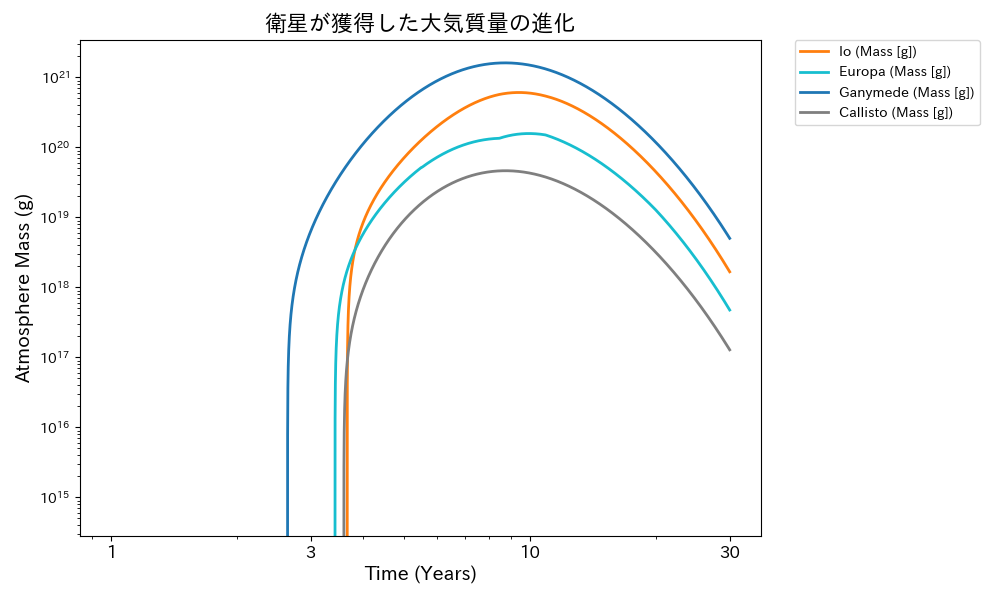
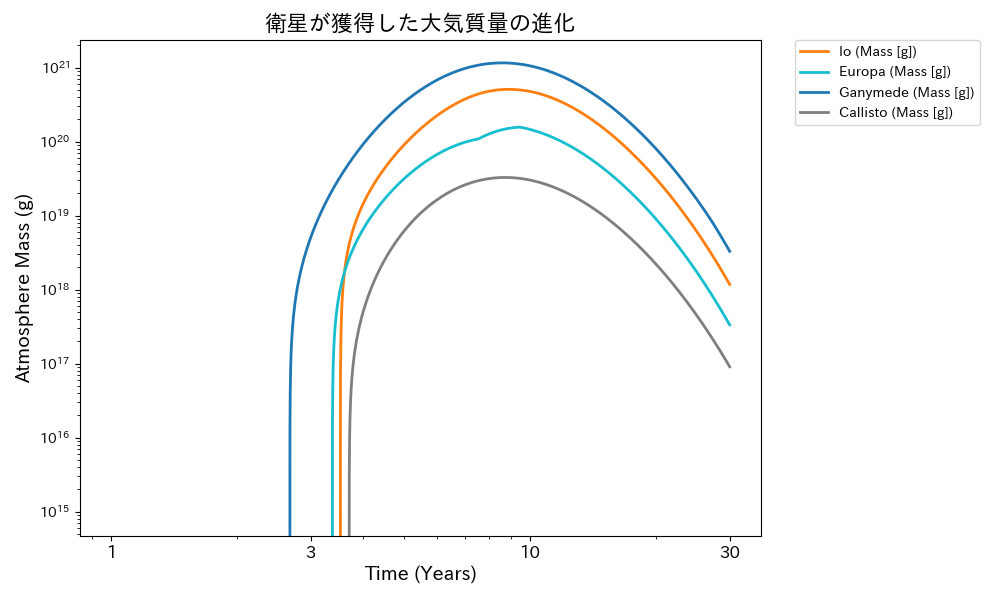
ガニメデの氷質量分率に近いr_gg=1.27e-7を設定

diff --git a/gallilean_central_flax.py b/gallilean_central_flax.py
@@ -9,7 +9,7 @@ plt.rcParams['font.family'] = 'IPAexGothic'
 # --- 物理定数 ---
 G = 6.6743e-8             # 万有引力定数 (cm^3/g/s^2)
 sigma_sb = 5.67e-5         # ステファン・ボルツマン定数 (W/cm^2/K^4)
-r_gg = 1.7e-7              # 粒子とガスの面密度比
+r_gg = 1.27e-7              # 粒子とガスの面密度比
 k_B = 1.380649e-16         # ボルツマン定数 (erg/K)
 m_g = 3.9e-24              # ガスの平均分子質量 (g)
 alpha = 1.0e-4              # 乱流の強さ
@@ -545,14 +545,17 @@ t_max_year = 3.0e7         # 3000万年
 q_total_count = 0
 q_non_converge_count = 0
 
-# 追加: 固定軌道での温度を記録するための準備
-target_fixed_r = 14.8 * R_J  # グラフ化したい軌道半径を指定
-fixed_history_t = []
-fixed_history_Td = []
-fixed_history_T_visc = []
-fixed_history_T_irr = []
-fixed_history_T_sun = []
-fixed_history_T_snow = []
+# --- 変更: 4大衛星の固定軌道での温度進化を記録するための準備 ---
+fixed_orbits = {
+    "Io": 5.89 * R_J,
+    "Europa": 9.38 * R_J,
+    "Ganymede": 14.97 * R_J,
+    "Callisto": 26.34 * R_J
+}
+# 各衛星のデータを保存する辞書を作成
+fixed_histories = {
+    name: {'t': [], 'Td': [], 'T_snow': []} for name in fixed_orbits.keys()
+}
 
 history_disk_mass_t = []
 history_disk_mass = []
@@ -584,42 +587,30 @@ while t_year <= t_max_year:
     history_M_cp.append(M_cp_MJ)
     history_M_dot_g.append(M_dot_g_kg_s)
 
-    # 指定した固定軌道における各温度成分を計算して記録
-    p_fix, q_fix = calculate_p_q(M_cp_kg, M_dot_g_kg_s, target_fixed_r, alpha, r_gg, L_cp)
-    Td_fixed, Sigma_g_fixed = calculate_disk_structure(M_cp_kg, M_dot_g_kg_s, target_fixed_r, alpha, r_gg, L_cp, q_guess=q_fix)
-    
-    # ① 太陽からの熱 (T_sun)
-    T_sun_val = T_bg
-    
-    # ② 木星からの熱 (T_irr)
-    Omega_K_fixed = np.sqrt(G * M_cp_kg / target_fixed_r**3)
-    c_s_fixed = np.sqrt((k_B * Td_fixed) / m_g)
-    H_g_fixed = c_s_fixed / Omega_K_fixed
-    derivative_term = 0.5 * s_const * (H_g_fixed / target_fixed_r) * (1.0 - q_fix)
-    F_in_fixed = 0.5 * (L_cp / (4.0 * np.pi * target_fixed_r**2)) * derivative_term
-    T_irr_val = (max(F_in_fixed, 0) / sigma_sb)**0.25
-    
-    # ③ 摩擦熱 (T_visc)
-    T_visc_val = max(Td_fixed**4 - T_irr_val**4 - T_sun_val**4, 0.0)**0.25
+   # --- 変更: 4大衛星の固定軌道における温度成分を計算して記録 ---
+    for name, r_fixed in fixed_orbits.items():
+        p_fix, q_fix = calculate_p_q(M_cp_kg, M_dot_g_kg_s, r_fixed, alpha, r_gg, L_cp)
+        Td_fixed, Sigma_g_fixed = calculate_disk_structure(M_cp_kg, M_dot_g_kg_s, r_fixed, alpha, r_gg, L_cp, q_guess=q_fix)
+        
+        if np.isnan(Td_fixed):
+            continue
+            
+        Omega_K_fixed = np.sqrt(G * M_cp_kg / r_fixed**3)
+        c_s_fixed = np.sqrt((k_B * Td_fixed) / m_g)
+        H_g_fixed = c_s_fixed / Omega_K_fixed
+        rho_g_fixed = Sigma_g_fixed / (np.sqrt(2.0 * np.pi) * H_g_fixed)
+        P_gas_cgs = rho_g_fixed * c_s_fixed**2
+        
+        X_H2O = 1.7e-4
+        P_H2O_cgs = max(X_H2O * P_gas_cgs, 1e-20)
+        T_snow_val = 6070.0 / (30.86 - np.log(P_H2O_cgs))
+        
+        # 辞書に記録
+        fixed_histories[name]['t'].append(t_year)
+        fixed_histories[name]['Td'].append(Td_fixed)
+        fixed_histories[name]['T_snow'].append(T_snow_val)
 
-    # ④ スノーラインの温度（T_snow）
-    # まず空間密度(rho_g)とMKS単位系のガス圧(Pa)を計算
-    rho_g_fixed = Sigma_g_fixed / (np.sqrt(2.0 * np.pi) * H_g_fixed)
-    P_gas_cgs = rho_g_fixed * c_s_fixed**2
     
-   
-    
-    # 動的スノーラインの計算 (Shibaike et al. 2019 に準拠したモル分率)
-    X_H2O = 1.7e-4
-    P_H2O_cgs = max(X_H2O * P_gas_cgs, 1e-20)
-    T_snow_val = 6070.0 / (30.86 - np.log(P_H2O_cgs))
-
-    fixed_history_t.append(t_year)
-    fixed_history_Td.append(Td_fixed)
-    fixed_history_T_visc.append(T_visc_val)
-    fixed_history_T_irr.append(T_irr_val)
-    fixed_history_T_sun.append(T_sun_val)
-    fixed_history_T_snow.append(T_snow_val)
 
     # すでに捕獲済みの衛星を抽出し、軌道が「外側」の順に並び替え
     active_sats = [sat for sat in satellites if t_year >= sat.t_cap]
@@ -633,17 +624,26 @@ while t_year <= t_max_year:
         p, q = calculate_p_q(M_cp_kg, M_dot_g_kg_s, sat.r_orb, alpha, r_gg, L_cp)
         T_d, Sigma_g = calculate_disk_structure(M_cp_kg, M_dot_g_kg_s, sat.r_orb, alpha, r_gg, L_cp, q_guess=q)
         if np.isnan(T_d): continue
+
+        # ★ 追加・修正: 衛星の現在位置における「局所的なスノーライン温度 (T_snow_local)」を計算
+        v_K = np.sqrt(G * M_cp_kg / sat.r_orb)
+        Omega_K = v_K / sat.r_orb
+        c_s_local = np.sqrt((k_B * T_d) / m_g)
+        H_g_local = c_s_local / Omega_K
+        rho_g_local = Sigma_g / (np.sqrt(2.0 * np.pi) * H_g_local)
+        P_gas_local = rho_g_local * c_s_local**2
+        X_H2O = 1.7e-4
+        P_H2O_local = max(X_H2O * P_gas_local, 1e-20)
+        T_snow_local = 6070.0 / (30.86 - np.log(P_H2O_local))
             
-        # スノーラインの判定（T_snow以上なら氷が蒸発してペブル質量フラックスが半減）
-        local_M_dot_p = current_M_dot_p * 0.5 if T_d >= T_snow_val else current_M_dot_p
+        # 修正: 全体共通の T_snow_val ではなく、局所の T_snow_local を使う
+        local_M_dot_p = current_M_dot_p * 0.5 if T_d >= T_snow_local else current_M_dot_p
        
         eta, H_g = calculate_eta(M_cp_kg, M_dot_g_kg_s, sat.r_orb, alpha, r_gg, L_cp)
         
         st_p = calculate_st_p(p, q, local_M_dot_p, M_dot_g_kg_s, alpha, T_d, M_cp_kg, sat.r_orb, eta)
         
-        v_K = np.sqrt(G * M_cp_kg / sat.r_orb)
-        Omega_K = v_K / sat.r_orb
-        
+        # （...中略: H_p や P_eff などの計算...）
         H_p = H_g * (1.0 + (st_p / alpha) * (1.0 + 2.0 * st_p) / (1.0 + st_p))**(-0.5)
         h_p = H_p / sat.r_orb
 
@@ -651,15 +651,12 @@ while t_year <= t_max_year:
         delta_v = calculate_delta_v(mu_s, eta, st_p, v_K)
         P_eff = calculate_P_eff(mu_s, delta_v, v_K, st_p, eta, h_p)
         
-        # 【重要】自分が捕獲した分、さらに内側に流れるペブルが減る（フィルタリング）
-        
         M_dot_s = local_M_dot_p * P_eff
-        
         current_M_dot_p = current_M_dot_p - M_dot_s
         
-        # --- 追加・修正: 氷と岩石の質量を個別に計算 ---
-        # スノーラインより外側なら、降着するペブルの50%が氷だと仮定
-        f_ice = 0.5 if T_d < T_snow_val else 0.0
+        # 修正: ここでも局所の T_snow_local を使う
+        f_ice = 0.5 if T_d < T_snow_local else 0.0
+            
         
         dt_sec = dt_year * 365.25 * 24 * 3600
         dM_s_total = M_dot_s * dt_sec
@@ -748,7 +745,7 @@ while t_year <= t_max_year:
         dM_s = sat.next_M_s - sat.M_s  # このステップで獲得した質量
         
         # スノーライン(T_snow)より外側なら、獲得したペブルの50%が氷だと仮定
-        if T_d < T_snow_val:
+        if T_d < T_snow_local:
             sat.next_M_ice = sat.M_ice + dM_s * 0.5
         else:
             sat.next_M_ice = sat.M_ice  # 氷は増えない
@@ -813,7 +810,7 @@ if q_total_count > 0:
 print("-" * 40)
 
 # ---------------------------------------------------
-# ★ ここに追加: 最終的な質量と氷質量分率の出力・保存
+# 最終的な質量と氷質量分率の出力・保存
 # ---------------------------------------------------
 output_text = "=" * 40 + "\n"
 output_text += "計算終了時 (3000万年) の衛星の最終パラメータ\n"
@@ -914,16 +911,6 @@ plt.tight_layout()
 plt.savefig("disk_temp_central_flax.png")
 plt.close()
 
-# --- 追加: 固定軌道における円盤ガス温度 ---
-plt.figure(figsize=(8, 5))
-plt.plot(fixed_history_t, fixed_history_Td, color='tab:red', linewidth=2)
-plt.ylabel('Disk Midplane Temp T_d (K)')
-plt.xlabel('Time (Years)')
-plt.title(f'固定軌道 ({target_fixed_r/R_J} R_J) における円盤ガス温度')
-plt.xscale('log')
-plt.tight_layout()
-plt.savefig("fixed_orbit_Td_central_flax.png")
-plt.close()
 
 # --- 追加: ぺブル集積効率 ---
 plt.figure(figsize=(8, 5))
@@ -1012,23 +999,6 @@ plt.tight_layout()
 plt.savefig("disk_temp_vs_gas_pressure_central_flax.png")
 plt.close()
 
-# --- 追加: 各加熱ソースの比較グラフ ---
-plt.figure(figsize=(8, 5))
-# 全体の温度（実線）
-plt.plot(fixed_history_t, fixed_history_Td, label='Total T_d (総合温度)', color='black', linewidth=2)
-# 各成分（点線）
-plt.plot(fixed_history_t, fixed_history_T_visc, label='T_visc (粘性加熱)', color='tab:red', linestyle='--')
-plt.plot(fixed_history_t, fixed_history_T_irr, label='T_irr (木星からの光)', color='tab:orange', linestyle='--')
-plt.plot(fixed_history_t, fixed_history_T_sun, label='T_sun (太陽からの光)', color='tab:blue', linestyle='--')
-
-plt.ylabel('Temperature (K)')
-plt.xlabel('Time (Years)')
-plt.title(f'各加熱ソースの比較 (固定された軌道)')
-plt.xscale('log')
-plt.legend()
-plt.tight_layout()
-plt.savefig("temperature_components_central_flax.png")
-plt.close()
 
 # --- 追加: 円盤ガス総質量の推移 ---
 plt.figure(figsize=(8, 5))
@@ -1218,23 +1188,39 @@ plt.tight_layout()
 plt.savefig("surface_pressure_evolution_central_flux.png")
 plt.close()
 
-# ---固定軌道でのスノーラインの変化---
-plt.figure(figsize=(8, 5))
+# --- 変更: メインループで記録した履歴 (fixed_histories) を使って描画 ---
+plt.figure(figsize=(10, 6))
 
-plt.plot(fixed_history_t, fixed_history_Td, label=r"Disk Temperature (T_d)", color="red", linewidth=2)
-plt.plot(fixed_history_t, fixed_history_T_snow, label=r"Water Ice condensation Temperature (T_{con})", color="blue", linestyle="--", linewidth=2)
+orbit_colors = {
+    "Io": "tab:orange",
+    "Europa": "tab:cyan",
+    "Ganymede": "tab:blue",
+    "Callisto": "tab:gray"
+}
+
+for name in fixed_orbits.keys():
+    hist = fixed_histories[name]
+    col = orbit_colors[name]
+    
+    if len(hist['t']) > 0:
+        # 実線: 円盤温度 T_d
+        plt.plot(hist['t'], hist['Td'], color=col, linestyle='-', linewidth=2, label=f"{name} ($T_d$)")
+        # 破線: 凝縮温度 T_con
+        plt.plot(hist['t'], hist['T_snow'], color=col, linestyle='--', linewidth=2, label=f"{name} ($T_{{con}}$)")
 
 plt.xlabel("Time [years]", fontsize=14)
 plt.ylabel("Temperature [K]", fontsize=14)
-plt.title("Evolution of Temperatures at Fixed Orbit", fontsize=16)
+plt.title("Evolution of Temperatures at Fixed Orbits", fontsize=16)
 plt.xscale("log") 
-plt.legend(fontsize=12)
+
+# 凡例を2列にして配置
+plt.legend(fontsize=10, ncol=2, loc='lower left')
 plt.grid(True, which="both", linestyle=":", alpha=0.7)
 
 plt.tight_layout()
-plt.savefig("snowline_central_flux.png")
+plt.savefig("snowline_all_satellites_fixed_orbits.png")
 plt.close()
-"""
+
 # ==========================================
 # 追加: ガニメデ軌道における光学厚み tau の時間進化 (r_gg 依存性の比較)
 # ==========================================
@@ -1298,4 +1284,4 @@ plt.legend(fontsize=12)
 plt.grid(True, which="both", linestyle=":", alpha=0.7)
 plt.tight_layout()
 plt.savefig("tau_evolution_ganymede_comparison.png")
-"""
+
